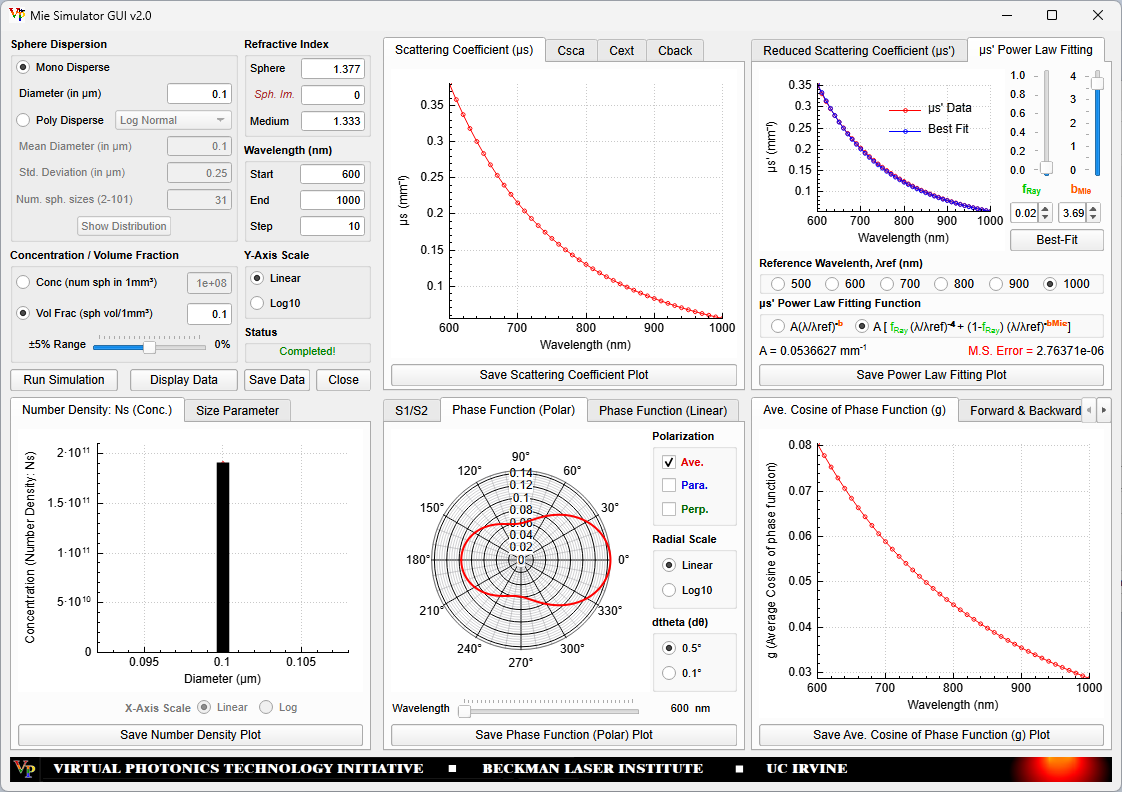
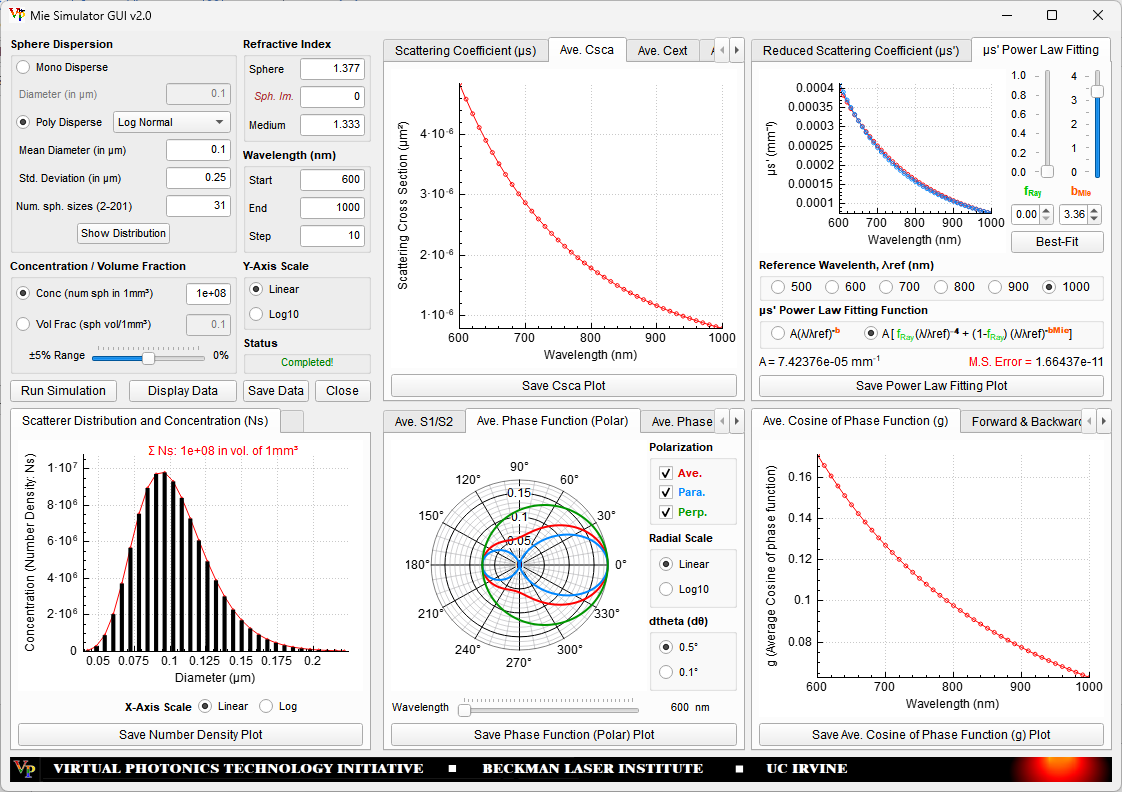
Update figure; Fix typos

diff --git a/paper/paper.md b/paper/paper.md
@@ -46,7 +46,7 @@ Mie theory is a mathematical framework derived from Maxwell's equations that mod
 
 # Statement of need
 
-Mie theory is derived from Maxwell's equations, provides a comprehensive framework for modeling electromagnetic scattering by spherical particles [@Mie1908]. Mie theory is utilized across diverse fields, ranging from nanomaterials and biomedical optics to atmospheric science and astronomy [@Goody1989; @Saidi1995; @Wang2005; @Chalut2008; @Horvath2009; @Bhandari11]. Despite its broad applicability, the theory's reliance on complex mathematical constructs, such as infinite series and special functions [@VandeHulst1957; @Bohren1983; @Wiscombe1980; @Majic2020], demands advanced computational implementation. 
+Mie theory is derived from Maxwell's equations and provides a comprehensive framework for modeling electromagnetic scattering by spherical particles [@Mie1908]. Mie theory is utilized across diverse fields, ranging from nanomaterials and biomedical optics to atmospheric science and astronomy [@Goody1989; @Saidi1995; @Wang2005; @Chalut2008; @Horvath2009; @Bhandari11]. Despite its broad applicability, the theory's reliance on complex mathematical constructs, such as infinite series and special functions [@VandeHulst1957; @Bohren1983; @Wiscombe1980; @Majic2020], demands advanced computational implementation. 
 
 While numerous Mie simulation packages are available (many of which are listed on [SCATTPORT.org](https://scattport.org) and [Wikipedia](https://en.wikipedia.org/wiki/Codes_for_electromagnetic_scattering_by_spheres)), they generally fall into two categories: older, established codes focusing on computational efficiency [@Wiscombe1980; @Bohren1983], and newer, object-oriented libraries typically hosted on version-control platforms [@Sumlin2018; @PoinsinetdeSivry-Houle2023; @Prahl_mie; @MieScattering]. Although both categories provide robust computational engines, they usually demand significant programming proficiency. This requirement creates a barrier for experimentalists, clinical scientists, and educators who need these analytical capabilities but may lack the specialized coding expertise to integrate such libraries into their workflows.
 
@@ -67,10 +67,7 @@ The tool is distributed as portable binaries for Windows, macOS, and Linux. For 
 
 ## Input Selection Panel
 
-This panel enables the user to define inputs for Mie simulations at either a single wavelength or across a spectral range. The distribution of spheres is described using sphere concentration (`Conc`) ($\text{spheres/mm}^3$) or volume fraction (`Vol Frac`). The volume fraction represents the ratio of total sphere volume to container volume. It is calculated by multiplying the number density (number of spheres  in $1\text{ mm}^3$) by the volume of an individual sphere.
-
-
-The volume fraction, the proportion of space occupied by spheres, is determined by the product of the sphere density (number of spheres in 1 $\text{mm}^3) and the individual sphere volume divided by 1 $\text{mm}^3. `MieSimulatorGUI` utilizes the independent scattering approximation, a framework valid for dilute suspensions where particles are sufficiently separated to ignore coherent interactions [@VandeHulst1957; @Schmitt1998]. Since the validity of this approximation depends on the inter-particle spacing, size parameter, and relative refractive index [@Tien1987; @Ivezic1996; @Galy2020; @Yalcin2022], its accuracy diminishes as the volume fraction increases. Consequently, the tool is best suited for dilute systems; the results obtained for concentrated regimes may deviate from physical reality and should be interpreted with caution. To assist the user, `MieSimulatorGUI` triggers a warning message whenever input parameters shift into the transitional or dependent scattering regimes.
+This panel enables the user to define inputs for Mie simulations at either a single wavelength or across a spectral range. The distribution of spheres is described using sphere concentration (`Conc`) ($\text{spheres/mm}^3$) or volume fraction (`Vol Frac`). The volume fraction represents the ratio of total sphere volume to the total container volume. It is calculated by multiplying the volume of an individual sphere by `Conc`.`MieSimulatorGUI` utilizes the independent scattering approximation, a framework valid for dilute suspensions where particles are sufficiently separated to ignore coherent interactions [@VandeHulst1957; @Schmitt1998]. Since the validity of this approximation depends on the inter-particle spacing, size parameter, and relative refractive index [@Tien1987; @Ivezic1996; @Galy2020; @Yalcin2022], its accuracy diminishes as the volume fraction increases. Consequently, the tool is best suited for dilute systems and the results obtained for concentrated regimes may deviate from physical reality and should be interpreted with caution. `MieSimulatorGUI` triggers a warning message whenever input parameters shift into the transitional or dependent scattering regimes.
 
 To maintain numerical stability in the BHMIE algorithm and ensure UI responsiveness, sphere diameters are restricted to a range of 0.1 $\text{nm}$ to 300 $\text{µm}$ and wavelengths are limited to $50\text{ nm}$ – $3000\text{ nm}$. These ranges cover the primary biomedical and atmospheric spectral windows. For absorbing spheres, the complex refractive index ($m_{sphere}$) is defined as $m_{real}$ – j $m_{imag}$, where $m_{real}$ and $m_{imag}$ represent real and imaginary components, respectively [@VandeHulst1957; @Wiscombe1979]. 
 
@@ -82,7 +79,7 @@ This panel graphically presents the number density of spheres $N_s$ [\#/ $\text{
 
 ## Scattering Coefficient Panel
 
-The Mie calculations provide three important efficiency factors: the scattering efficiency ($Q_{sca}$), the extinction efficiency ($Q_{ext}$), and the backscattering efficiency ($Q_{back}$) (see [Mie Scattering Efficiencies](https://miepython.readthedocs.io/en/latest/02_efficiencies.html)). These dimensionless quantities combined with the particle's cross section area ($\text{π}R^2$) yield the corresponding scattering cross section $C_{sca}$ [ $\text{/mm}^2$ ], extinction cross section $C_{ext}$ [ $\text{/mm}^2$ ] and backscattering cross section $C_{back}$ [ $\text{/mm}^2$ ] [@VandeHulst1957; @Bohren1983]. The calculated cross sections are displayed across three separate tabs. 
+The Mie calculations provide three important efficiency factors: the scattering efficiency ($Q_{sca}$), the extinction efficiency ($Q_{ext}$), and the backscattering efficiency ($Q_{back}$) (see [Mie Scattering Efficiencies](https://miepython.readthedocs.io/en/latest/02_efficiencies.html)). These dimensionless quantities combined with the particle's cross sectional area ($\text{π}R^2$) yield the corresponding scattering cross section $C_{sca}$ [ $\text{/mm}^2$ ], extinction cross section $C_{ext}$ [ $\text{/mm}^2$ ] and backscattering cross section $C_{back}$ [ $\text{/mm}^2$ ] [@VandeHulst1957; @Bohren1983]. The calculated cross sections are displayed across three separate tabs. 
 For monodisperse distribution, the [scattering coefficient](https://omlc.org/classroom/ece532/class3/musdefinition.html) ($\text{µ}_s$) is simply the product of the scattering cross-section $C_{sca}$ and the number density $N_s$. For polydisperse distributions, the scattering coefficient is computed via a discrete summation of the cross-sections across individual particle size bins, as detailed by [@Schmitt1998]. 
 
 ## Phase Function Panel
@@ -99,10 +96,10 @@ This panel shows the [reduced scattering coefficient](https://omlc.org/classroom
 
 ## Example Application: Scattering of Intralipid Phantoms
 
-To demonstrate the tool's scientific utility, consider the characterization of Intralipid 20%, a common tissue phantom in biomedical optics [@DiNinni2011]. Users can define the medium by inputting polydisperse particle distribution parameters using a `Log Normal` distribution. For Intralipid 20% (w/w), which corresponds to a volume fraction (`Vol Frac`) of 0.227 [@Aernouts2013], users may assume a mean particle diameter of 0.22 $\text{µm}$ and a standard deviation of 0.4 $\text{µm}$, following Raju (2017) [@Raju2017]. After setting the `Num. sph. sizes` field to 101, users can specify the refractive index of the soybean oil droplets as 1.47 and the surrounding medium as 1.33. Upon executing the simulation across the 600–1000 $\text{nm}$ spectral range, `MieSimulatorGUI` calculates $\text{µ}_s$, $\text{µ}_s'$ and g. Even though these values may deviate from independent scattering approximation, they remain comparable to experimental data [@Aernouts2013] and can be exported as text data files for further analysis.
+To demonstrate the tool's scientific utility, consider the characterization of Intralipid 20%, a common tissue phantom in biomedical optics [@DiNinni2011]. Users can define the medium by inputting polydisperse particle distribution parameters using a `Log Normal` distribution. For Intralipid 20% (w/w), which corresponds to a volume fraction (`Vol Frac`) of 0.227 [@Aernouts2013], users may assume a mean particle diameter of 0.22 $\text{µm}$ and a standard deviation of 0.36 $\text{µm}$, following Raju (2017) [@Raju2017]. After setting the `Num. sph. sizes` field to 101, users can specify the refractive index of the soybean oil droplets as 1.47 and the surrounding medium as 1.33. Upon executing the simulation across the 600–1000 $\text{nm}$ spectral range, `MieSimulatorGUI` calculates $\text{µ}_s$, $\text{µ}_s'$ and g. Although these simulation data may deviate from the independent scattering approximation, the results remain comparable to the bulk scattering properties shown in Figure 14 of Aernouts et al. [@Aernouts2013]. Consequently, the generated data can be exported as text files for further analysis.
 
 # Acknowledgments
 
-We acknowledge support from the Laser Microbeam and Medical Program (LAMMP), a NIH Biomedical Technology Resource (P41-EB015890). JCR and VV acknowledge the support from the NIH (R21-GM128135) and the NSF (CBET-1805082). JCR was the primary contributor, handling the core software development, UI design, validation, GitHub upload, and drafting the original manuscript. VV provided overall supervision and critically reviewed and edited the final manuscript. CH developed the initial Mie scattering code, and LG assisted with the GitHub upload.
+We acknowledge support from the Laser Microbeam and Medical Program (LAMMP), a NIH Biomedical Technology Resource (P41-EB015890). JCR and VV acknowledge the support from the NIH (R21-GM128135) and the NSF (CBET-1805082). JCR was the primary contributor, handling the core software development, UI design, validation, GitHub upload, and drafting the original manuscript. VV provided overall supervision and critically reviewed and edited the final manuscript. CKH developed the initial Mie scattering code, and LG assisted with the GitHub upload.
 
 # References
